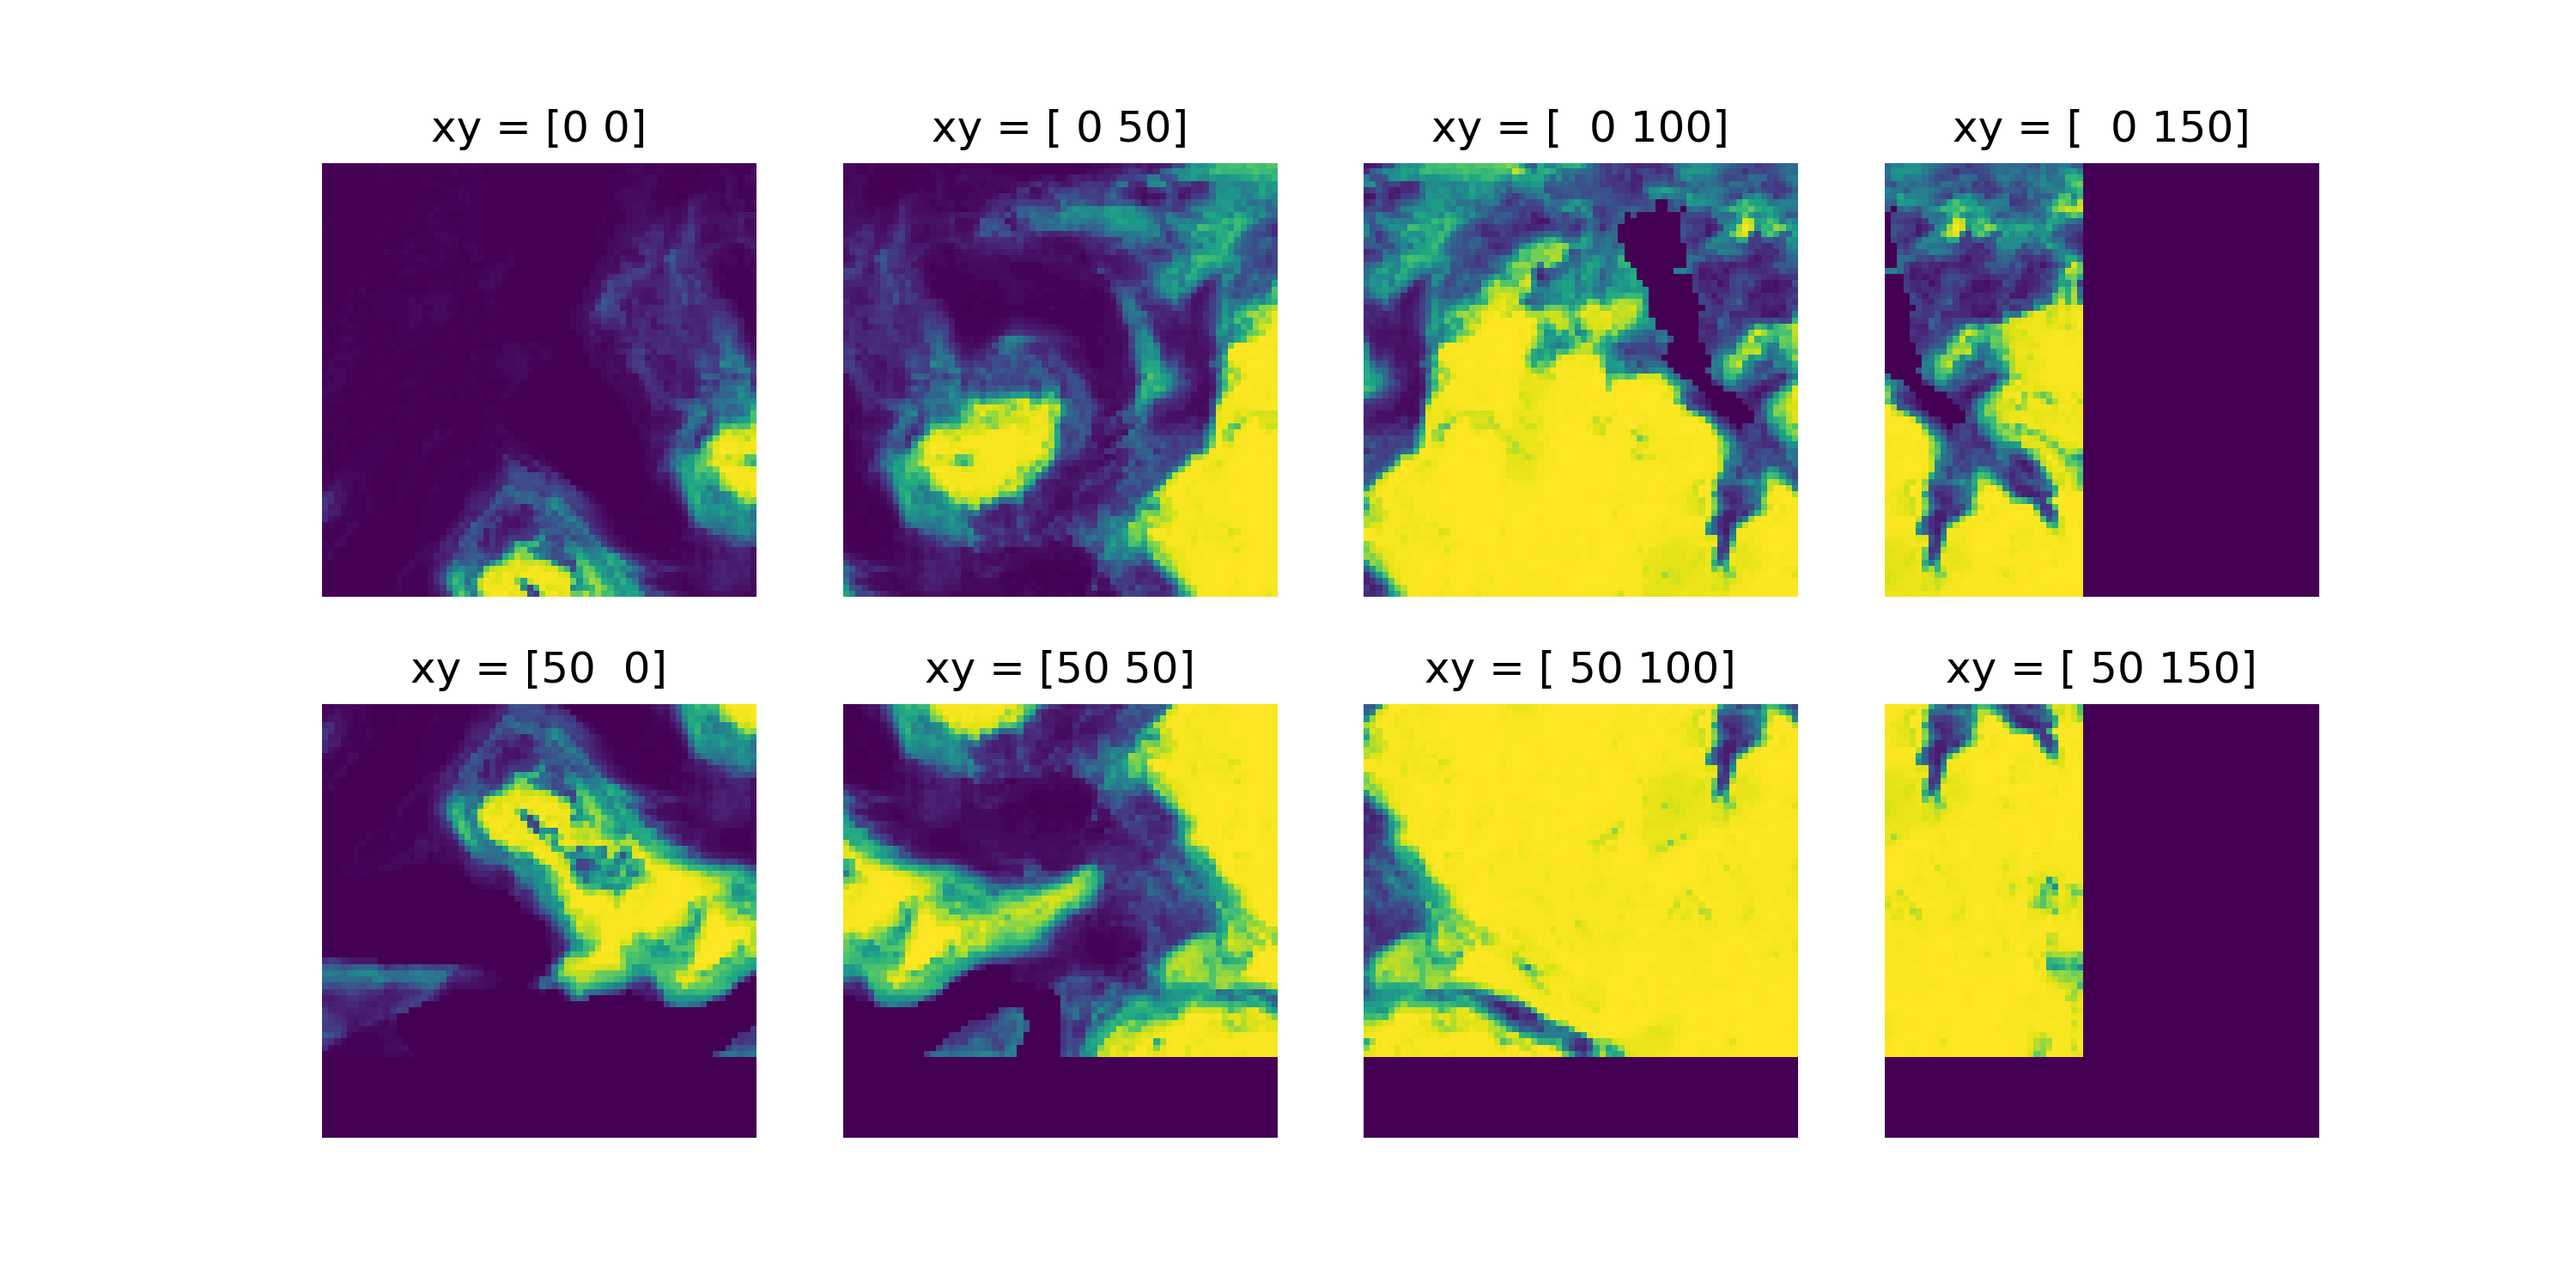
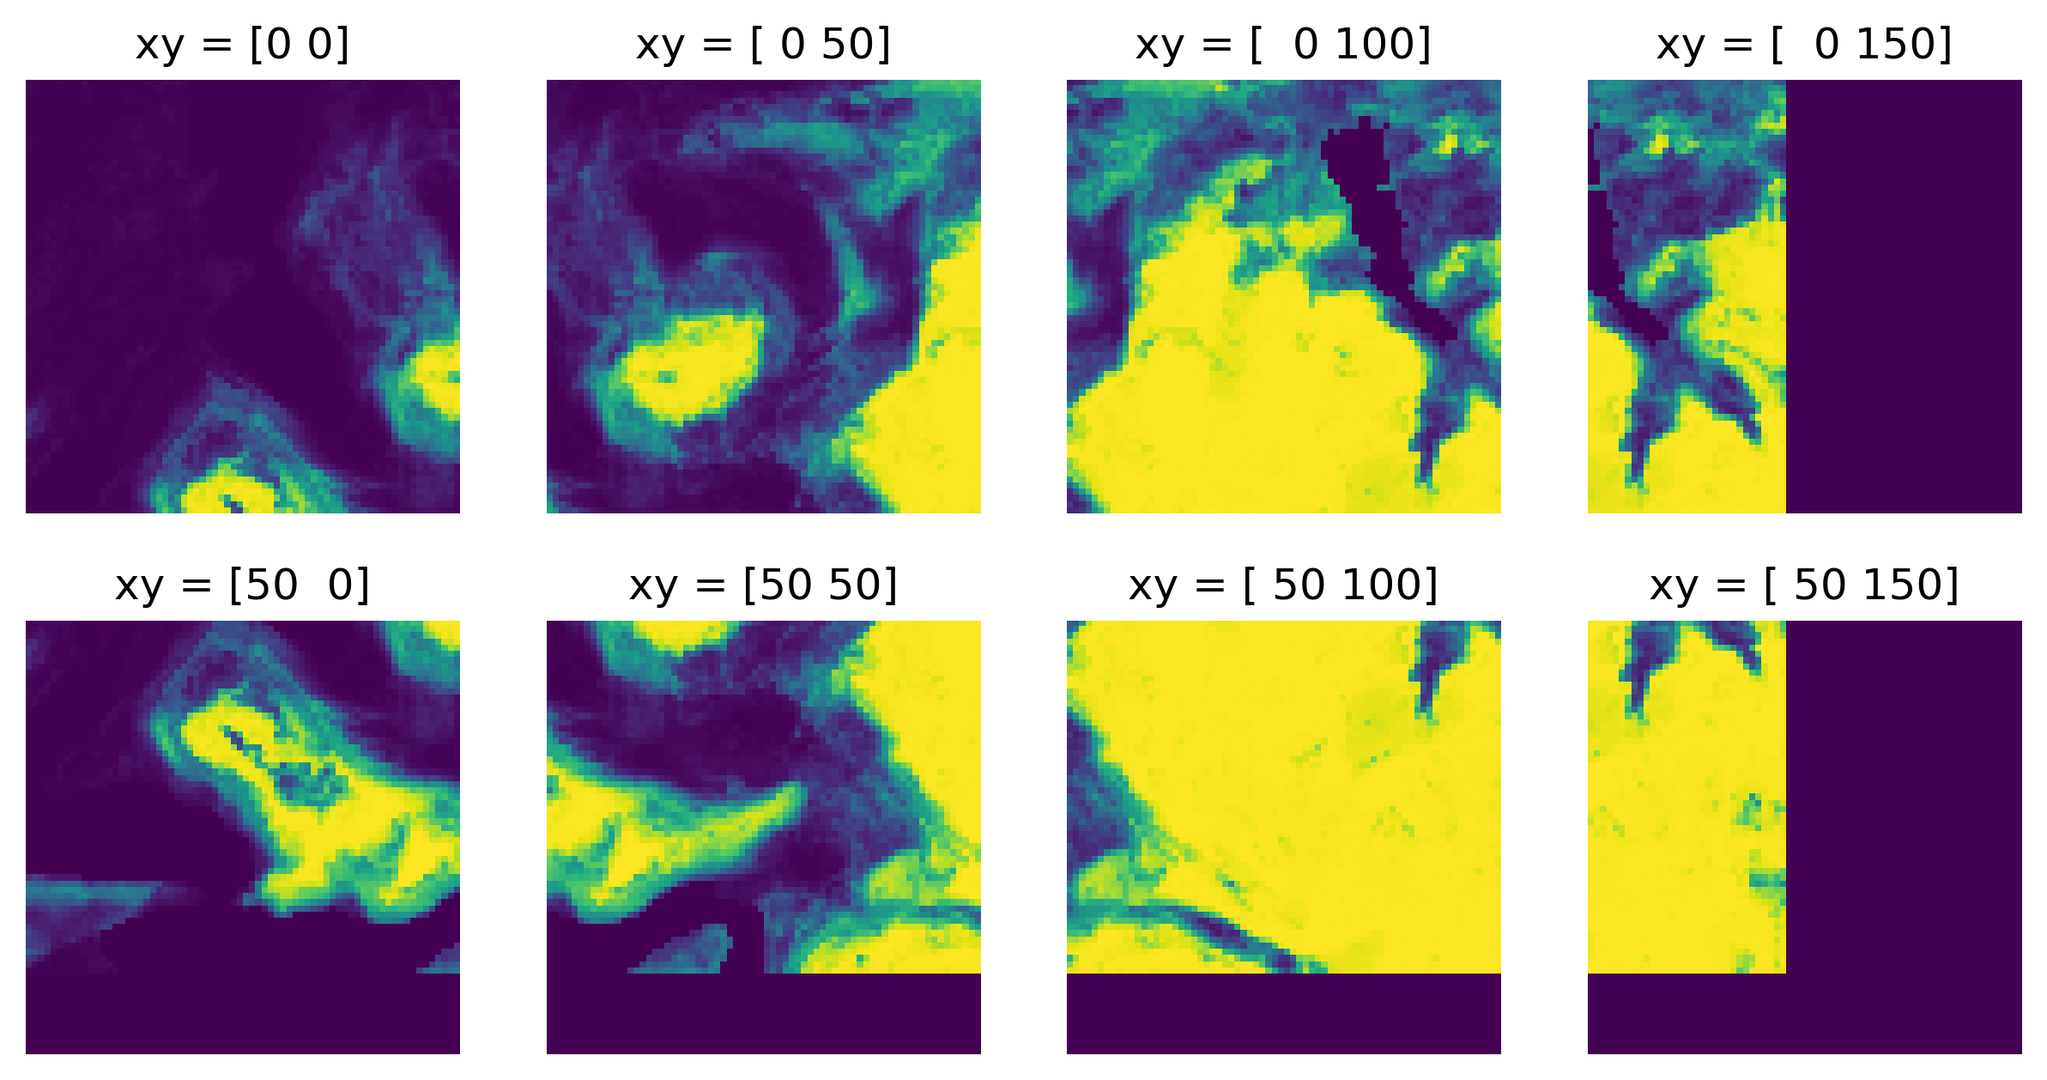
updated readme

diff --git a/examples/sensitivity_analysis/sensitivity_analysis.py b/examples/sensitivity_analysis/sensitivity_analysis.py
@@ -57,7 +57,7 @@ plt.imshow(elasticity + 1e-2,
 plt.axis("off")
 cbar = plt.colorbar(shrink=0.5)
 cbar.set_label('Elasticity w.r.t permeability')
-plt.savefig("elasticity_permeability.png")
+plt.savefig("elasticity_permeability.png", bbox_inches="tight")
 
 # To spot bottleneck, a good idea is to compare the elasticity to a perfect landscape
 # with no resistance to movement
@@ -73,6 +73,7 @@ sensitivity_permeability_ideal = sensitivity_prob.run("permeability", q_weighted
 elasticity_ideal = sensitivity_permeability_ideal * quality_raster
 elasticity_ideal = jnp.nan_to_num(elasticity_ideal, nan=0.0)
 
+plt.figure()
 plt.imshow(elasticity_ideal - elasticity + 1e-2, 
            cmap="plasma", 
         #    vmax=1e2,
@@ -81,7 +82,7 @@ plt.imshow(elasticity_ideal - elasticity + 1e-2,
 plt.axis("off")
 cbar = plt.colorbar(shrink=0.5)
 cbar.set_label('Bottlenecks')
-plt.savefig("bottlenecks.png")
+plt.savefig("bottlenecks.png", bbox_inches="tight")
 
 # want to prioritize the landscape?
 improved_permeability = 0.4

diff --git a/examples/moving_windows/moving_windows.py b/examples/moving_windows/moving_windows.py
@@ -9,7 +9,7 @@ with rasterio.open("../suitability.tif") as src:
 
 plt.imshow(quality)
 plt.axis("off")
-plt.savefig("quality_raster.png", dpi=300)
+plt.savefig("quality_raster.png", dpi=300, bbox_inches="tight")
 
 buffer_size=10
 window_size=50
@@ -28,7 +28,7 @@ for i, (xy, w) in enumerate(window_op.lazy_iterator(quality_padded)):
     ax.set_title(f"xy = {xy}")
     ax.imshow(w)
     ax.axis("off")
-plt.savefig("windows.png", dpi=300)
+plt.savefig("windows.png", dpi=300, bbox_inches="tight")
 
 # eager iterator
 xy, windows = window_op.eager_iterator(quality)
@@ -40,4 +40,4 @@ new_window = jnp.ones(windows[2, ...].shape, dtype="float32")
 new_raster = window_op.update_raster_with_focal_window(xy[2], quality_padded, new_window)
 plt.imshow(new_raster)
 plt.axis("off")
-plt.savefig("new_raster.png", dpi=300)
+plt.savefig("new_raster.png", dpi=300, bbox_inches="tight")

diff --git a/README.md b/README.md
@@ -121,7 +121,7 @@ plt.imshow(quality)
 plt.axis("off")
 ```
 
-<div align="center"><img src="examples/moving_windows/quality_raster.png" alt="Sensitivities"  width="400"></div>
+<div align="center"><img src="examples/moving_windows/quality_raster.png" alt="Sensitivities"  width="600"></div>
 
 To calculate the landscape connectivity, we need to define a disperal range for the species we consider, in terms of the maximum number of pixels an individual (or offspring) of this species can theoretically cross, should the permeability be 1 (highest).
 
@@ -180,11 +180,14 @@ cbar = plt.colorbar(shrink=0.5)
 cbar.set_label('Elasticity w.r.t permeability')
 ```
 
-<div align="center"><img src="examples/sensitivity_analysis/elasticity_permeability.png" alt="Sensitivities"  width="400"></div>
+<div align="center"><img src="examples/sensitivity_analysis/elasticity_permeability.png" alt="Sensitivities"  width="600"></div>
 
 **❓ How can I use this for prioriation❓**
+
 You want to prioritize pixels with high elasticity! Let's say that we have a certain budget to improve the permeability of the landscape, by incrasing each of the selected site by `improved_permeability = 0.4`. We compare two priorization scenarios: one where we select sites randomly, and one where we select sites based on their elasticity w.r.t permeability.
 
+<details>
+<summary>Click to see the code</summary>
 
 ```python
 threshold = jnp.percentile(elasticity, 95)  # Get the 99th percentile value excluding NaNs
@@ -198,14 +201,14 @@ random_coords = jnp.unravel_index(random_indices, quality_raster.shape)
 modified_quality_raster = quality_raster.at[random_coords].add(improved_permeability)
 
 def run_connectivity_analysis(raster):
-    connectivity_prob = ConnectivityAnalysis(quality_raster=quality_raster,
-                            permeability_raster=raster,
-                            distance=distance,
-                            proximity=proximity,
-                            coarsening_factor=0.,
-                            dependency_range=D,
-                            batch_size=50)
-    return connectivity_prob.run(q_weighted=True)
+  connectivity_prob = ConnectivityAnalysis(quality_raster=quality_raster,
+              permeability_raster=raster,
+              distance=distance,
+              proximity=proximity,
+              coarsening_factor=0.,
+              dependency_range=D,
+              batch_size=50)
+  return connectivity_prob.run(q_weighted=True)
 
 base_connectivity = run_connectivity_analysis(quality_raster)
 connectivity_improved = run_connectivity_analysis(improved_quality_raster)
@@ -215,6 +218,8 @@ print("Landscape connectivity gain")
 print(f"- based on priorization with elasticity: {(connectivity_improved - base_connectivity) / base_connectivity * 100:.2f}%")
 print(f"- based on random priorization: {((connectivity_improved_randomly - base_connectivity) / base_connectivity * 100):.2f}%")
 ```
+
+</details>
 
 ```
 Landscape connectivity gain
@@ -246,7 +251,7 @@ for i, (xy, w) in enumerate(window_op.lazy_iterator(quality_padded)):
     ax.imshow(w)
     ax.axis("off")
 ```
-<div align="center"><img src="examples/moving_windows/windows.png" alt="Sensitivities"  width="400"></div>
+<div align="center"><img src="examples/moving_windows/windows.png" alt="Sensitivities"  width="600"></div>
 
 ```python
 # eager iterator
